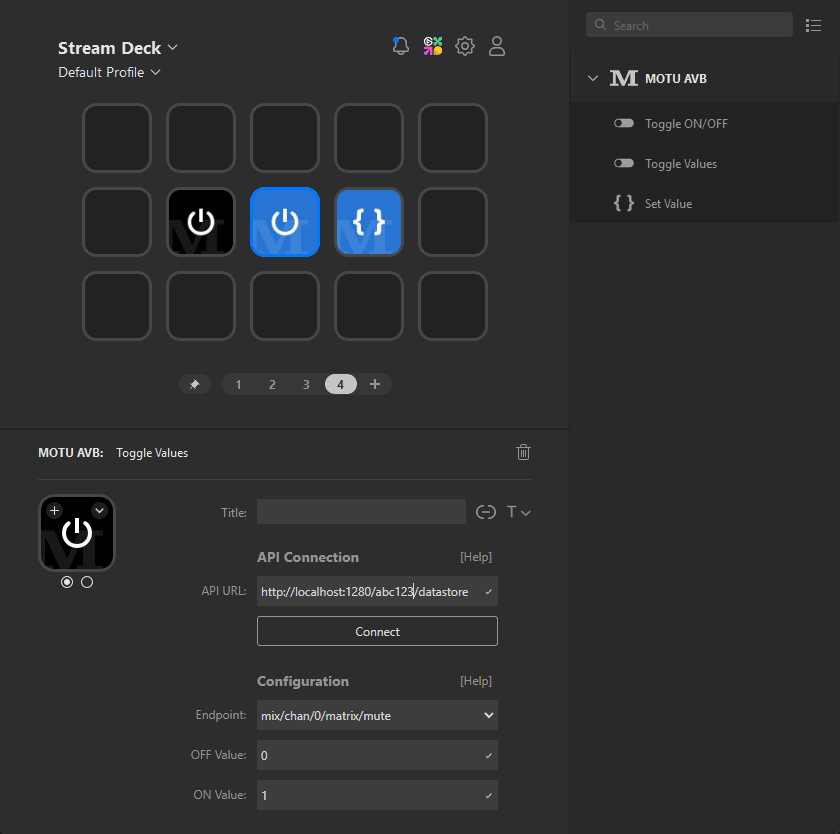
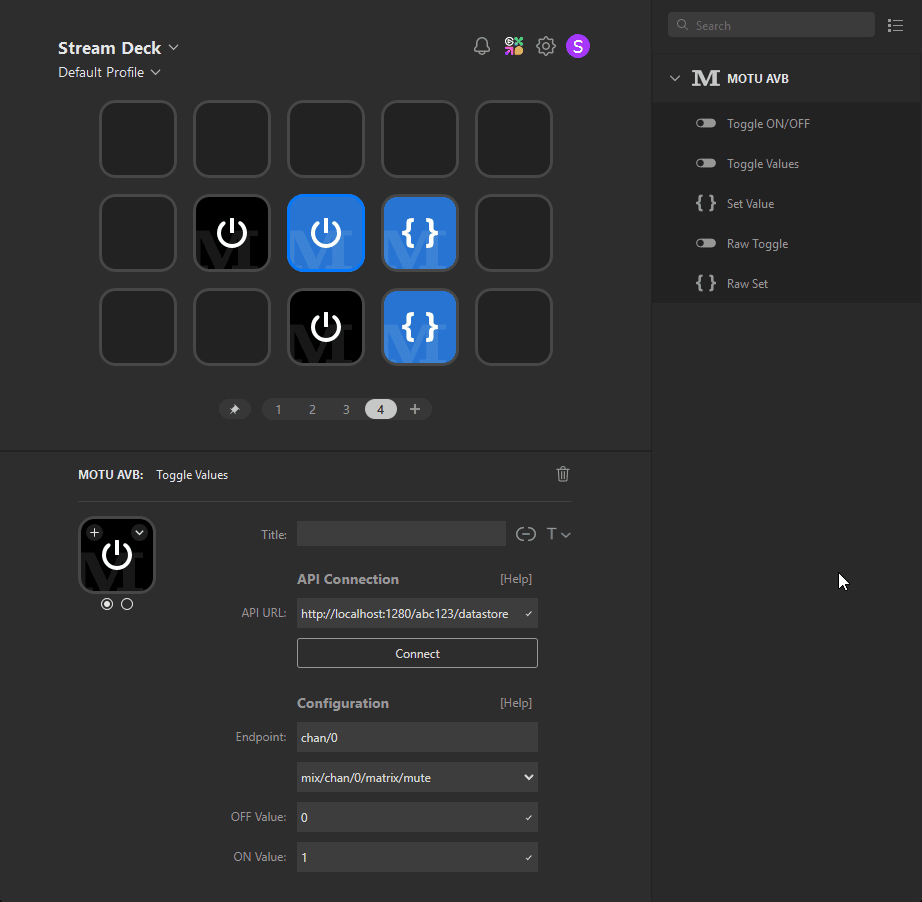
Code cleanup, Update README

diff --git a/src/actions/raw-toggle.ts b/src/actions/raw-toggle.ts
@@ -92,22 +92,4 @@ export class RawToggle extends SingletonAction<RawToggleSettings> {
         // StreamDeck SDK automatically switches state when you press the key
         // no need to set it manually.
     }
-
-    // onSendToPlugin is called when property inspector calls the plugin to get data using the datasource attribute
-    override async onSendToPlugin(ev: SendToPluginEvent<JsonValue, RawToggleSettings>): Promise<void> {
-        const {event} = ev.payload as JsonObject;
-
-        const globalSettings = await streamDeck.settings.getGlobalSettings();
-        const datastore = globalSettings.datastore as JsonObject || {};
-
-        if (event === "getEndpoints") {
-            // Filter for boolean and float endpoints
-            const endpoints = Object.keys(datastore).filter((endpoint) => this.motuApi.allRegex.test(endpoint));
-            
-            await streamDeck.ui.current?.sendToPropertyInspector({
-                event, 
-                items: endpoints.map((endpoint) => ({label: endpoint, value: endpoint})),
-            });
-        }
-    }
 }

diff --git a/src/actions/raw-set.ts b/src/actions/raw-set.ts
@@ -56,22 +56,4 @@ export class RawSet extends SingletonAction<RawSetSettings> {
         // StreamDeck SDK automatically switches state when you press the key
         // no need to set it manually.
     }
-
-    // onSendToPlugin is called when property inspector calls the plugin to get data using the datasource attribute
-    override async onSendToPlugin(ev: SendToPluginEvent<JsonValue, RawSetSettings>): Promise<void> {
-        const {event} = ev.payload as JsonObject;
-
-        const globalSettings = await streamDeck.settings.getGlobalSettings();
-        const datastore = globalSettings.datastore as JsonObject || {};
-
-        if (event === "getEndpoints") {
-            // Filter for boolean and float endpoints
-            const endpoints = Object.keys(datastore).filter((endpoint) => this.motuApi.allRegex.test(endpoint));
-            
-            await streamDeck.ui.current?.sendToPropertyInspector({
-                event, 
-                items: endpoints.map((endpoint) => ({label: endpoint, value: endpoint})),
-            });
-        }
-    }
 }

diff --git a/README.md b/README.md
@@ -28,6 +28,16 @@ Great for flipping faders or toggling specific "non-binary" settings.
 Sets a fixed value on a parameter with a single button press.  
 (Not a toggle.)
 
+### 🔁 Raw Toggle (advanced)
+
+Same as the Toggle Values action, but the endpoint field is a string. This way you can specify the MOTU endpoint you want, even the ones not included in the standard actions dropdown.
+Empty "OFF Value" field is treated as an empty string (`""`).
+
+### 🎯 Raw Set (advanced)
+
+Same as the Set Value action, but the endpoint field is a string. This way you can specify the MOTU endpoint you want, even the ones not included in the standard actions dropdown.
+Empty "Value" field is treated as an empty string (`""`).
+
 > 💡 All actions come with a simple configuration UI, including help text. No setup on the MOTU interface is required.
 
 ---
